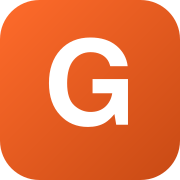
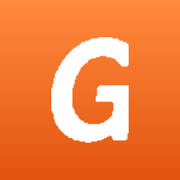
feat(brand): GraphyStyle 워드마크 로고 전면 적용
- 첨부 로고를 투명배경 워드마크 자산으로 가공(public/brand/graphystyle-logo.png)
- 헤더/히어로/푸터/A4 인쇄물(브랜드바·푸터)/설문/커뮤니티(GNB·히어로)/가입/sidex 커버 로고를 이미지로 교체
- 파비콘·앱아이콘 재생성: 오렌지 그라데이션 타일 + 흰 G (favicon.svg/ico/16~512, apple-touch)
- OG 이미지(1200x630/1200x1200) 워드마크+한글 태그라인으로 재생성
- site.webmanifest를 GraphyStyle로 갱신(name/short_name/description/maskable)

diff --git a/public/index.html b/public/index.html
@@ -138,6 +138,12 @@ button{font-family:inherit;cursor:pointer;border:none;background:none;color:inhe
 }
 .logo-text{color:var(--text);}
 .logo-text span{color:var(--brand);}
+/* GraphyStyle 워드마크 로고 */
+.gs-logo{height:30px;width:auto;display:block;}
+.hero-head .gs-logo{height:auto;width:min(460px,76vw);margin:0 auto;}
+.a4-logo{height:10mm;width:auto;display:block;}
+.a4-foot-logo{height:5.5mm;width:auto;display:block;}
+@media(max-width:600px){.gs-logo{height:26px;}}
 
 .nav{display:flex;gap:4px;}
 .nav a{
@@ -703,9 +709,8 @@ button{font-family:inherit;cursor:pointer;border:none;background:none;color:inhe
 <!-- ===== Header ===== -->
 <header class="header">
   <div class="header-inner">
-    <a href="#" class="logo">
-      <div class="logo-mark">G</div>
-      <div class="logo-text">graphy<span>style</span></div>
+    <a href="#" class="logo" aria-label="GraphyStyle 홈">
+      <img src="/brand/graphystyle-logo.png" alt="GraphyStyle" class="gs-logo">
     </a>
     <div class="header-cta">
       <a href="point-shower-community/index.html" class="btn btn-ghost">커뮤니티</a>
@@ -722,7 +727,7 @@ button{font-family:inherit;cursor:pointer;border:none;background:none;color:inhe
         <span class="dot"></span>
         SIDEX 2026 · graphystyle
       </div>
-      <h1>graphy<span style="color:var(--brand)">style</span></h1>
+      <h1><img src="/brand/graphystyle-logo.png" alt="GraphyStyle" class="gs-logo"></h1>
       <p class="hero-sub">3D 프린팅으로 만드는 개인 맞춤 구강 케어.<br>발표 자료와 커뮤니티로 바로 이동하세요.</p>
     </div>
 
@@ -764,7 +769,7 @@ button{font-family:inherit;cursor:pointer;border:none;background:none;color:inhe
           <div class="a4-pad">
 
             <div class="a4-brandbar">
-              <div class="a4-brand"><span class="mk">G</span><b>graphy<span>style</span></b></div>
+              <img src="/brand/graphystyle-logo.png" alt="GraphyStyle" class="a4-logo">
               <div class="a4-event">SIDEX 2026 · COEX<br>그래피 부스 D-601 / 701</div>
             </div>
 
@@ -803,7 +808,7 @@ button{font-family:inherit;cursor:pointer;border:none;background:none;color:inhe
             </div>
 
             <div class="a4-foot">
-              <span class="a4-foot-brand"><span class="mk">G</span><span>발표·자문 <b>이중우 원장</b> (올리브서울치과) &nbsp;|&nbsp; 개발 <b>(주)그래피</b></span></span>
+              <span class="a4-foot-brand"><img src="/brand/graphystyle-logo.png" alt="GraphyStyle" class="a4-foot-logo"><span>발표·자문 <b>이중우 원장</b> (올리브서울치과) &nbsp;|&nbsp; 개발 <b>(주)그래피</b></span></span>
               <span>그래피 부스 D-601·701 (C·D홀 연결 로비)에서 Point Shower 실물 체험 →</span>
             </div>
 
@@ -1150,8 +1155,7 @@ button{font-family:inherit;cursor:pointer;border:none;background:none;color:inhe
     <div class="footer-grid">
       <div class="brand-block">
         <div class="logo">
-          <div class="logo-mark">G</div>
-          <div class="logo-text">graphy<span>style</span></div>
+          <img src="/brand/graphystyle-logo.png" alt="GraphyStyle" class="gs-logo">
         </div>
         <p>3D 프린팅으로 만드는 개인 맞춤 구강 케어 — graphystyle.</p>
       </div>

diff --git a/public/point-shower-community/index.html b/public/point-shower-community/index.html
@@ -49,6 +49,9 @@ body{min-height:100vh;background:var(--bg-section);margin:0;}
 .gnb-logo{font-size:21px;font-weight:800;color:var(--text);letter-spacing:-0.02em;margin-right:32px;display:flex;align-items:center;gap:10px;text-decoration:none;}
 .gnb-logo::before{content:'G';width:34px;height:34px;border-radius:9px;background:linear-gradient(135deg,var(--accent),var(--accent-deep));color:#fff;display:grid;place-items:center;font-weight:900;font-size:16px;flex:none;}
 .gnb-logo .st{color:var(--accent);}
+.gnb-logo::before{display:none;}
+.gnb-logo-img{height:23px;width:auto;}
+.hero-logo-img{height:44px;width:auto;}
 .gnb-tabs{display:flex;gap:6px;}
 .gnb-tab{padding:11px 16px;font-size:15px;font-weight:600;color:var(--dim);border-radius:8px;cursor:pointer;border:none;background:none;font-family:var(--fb);transition:all 0.15s;}
 .gnb-tab:hover{color:var(--text);background:var(--bg-section);}
@@ -114,7 +117,7 @@ body{min-height:100vh;background:var(--bg-section);margin:0;}
 
 /* About page */
 .about-hero{text-align:center;padding:20px 0 32px;}
-.about-hero h1{font-size:46px;font-weight:900;letter-spacing:-0.035em;margin-bottom:10px;color:var(--text);}
+.about-hero h1{font-size:46px;font-weight:900;letter-spacing:-0.035em;margin-bottom:10px;color:var(--text);display:flex;align-items:center;justify-content:center;gap:12px;flex-wrap:wrap;}
 .about-hero h1 span{color:var(--accent);}
 .about-hero .ah-sub{font-size:18px;color:var(--muted);line-height:1.65;max-width:600px;margin:0 auto;}
 .about-section{margin-bottom:32px;}
@@ -175,7 +178,7 @@ body{min-height:100vh;background:var(--bg-section);margin:0;}
 
 <!-- GNB -->
 <nav class="gnb">
-  <a class="gnb-logo" href="/">graphy<span class="st">style</span> 커뮤니티</a>
+  <a class="gnb-logo" href="/" aria-label="GraphyStyle 홈"><img src="/brand/graphystyle-logo.png" alt="GraphyStyle" class="gnb-logo-img"> 커뮤니티</a>
   <div class="gnb-tabs">
     <button class="gnb-tab active" onclick="showPage('about')">소개</button>
     <button class="gnb-tab" onclick="showPage('ideas')">아이디어</button>
@@ -210,7 +213,7 @@ body{min-height:100vh;background:var(--bg-section);margin:0;}
 <!-- ===== ABOUT ===== -->
 <div class="page active" id="page-about">
   <div class="about-hero">
-    <h1>graphy<span>style</span> 커뮤니티</h1>
+    <h1><img src="/brand/graphystyle-logo.png" alt="GraphyStyle" class="hero-logo-img"> 커뮤니티</h1>
     <div class="ah-sub">원장님과 함께 만드는 3D 프린팅 개인 맞춤 구강 케어</div>
   </div>
 

diff --git a/public/sidex.html b/public/sidex.html
@@ -98,6 +98,8 @@ html,body{margin:0;padding:0;background:#0f172a;color:var(--text);font-family:va
 }
 .brand-text{font-size:24px;font-weight:800;letter-spacing:-0.02em;}
 .brand-sub{font-size:14px;color:var(--muted);font-family:var(--fm);margin-top:2px;}
+.brand-mark-img{width:54px;height:54px;border-radius:13px;display:block;}
+.cover-logo-img{width:min(760px,86%);height:auto;display:block;}
 
 .cards{display:grid;gap:16px;}
 .cards.cols-3{grid-template-columns:repeat(3,1fr);}
@@ -409,14 +411,10 @@ html,body{margin:0;padding:0;background:#0f172a;color:var(--text);font-family:va
     <section class="slide cover warm active" data-slide="1" data-time="30"
       data-notes="안녕하세요. 주식회사 그래피 솔루션개발팀에서 자문역을 맡고 있는, 올리브서울치과 이중우 원장입니다. 바쁘신 중에 이렇게 자리해 주셔서 진심으로 감사드립니다. 지금부터 약 15분간, '3D 프린팅으로 만드는 개인 맞춤 구강 케어', 그래피 스타일을 소개해 드리겠습니다.">
       <div class="brand-row topbar">
-        <div class="brand-mark">G</div>
-        <div>
-          <div class="brand-text">Graphy</div>
-          <div class="brand-sub">× Point Shower — Solution Lab</div>
-        </div>
+        <img src="/favicon-512.png" alt="GraphyStyle" class="brand-mark-img">
       </div>
       <div class="eyebrow" style="margin-top:48px;">SIDEX 2026 · KEYNOTE</div>
-      <h1>Graphy Style</h1>
+      <h1><img src="/brand/graphystyle-logo.png" alt="GraphyStyle" class="cover-logo-img"></h1>
       <h2 style="color:var(--accent);font-weight:800;font-size:44px;margin-top:8px;">
         3D 프린팅으로 만드는 개인 맞춤 구강 케어
       </h2>

diff --git a/public/point-shower-community/join.html b/public/point-shower-community/join.html
@@ -48,6 +48,7 @@ body{min-height:100vh;min-height:100dvh;background:var(--bg-section);display:fle
 .tb-logo{display:flex;align-items:center;gap:9px;font-weight:800;font-size:19px;letter-spacing:-0.02em;color:var(--text);text-decoration:none;}
 .tb-logo .mk{width:32px;height:32px;border-radius:8px;background:linear-gradient(135deg,var(--accent),var(--accent-deep));color:#fff;display:grid;place-items:center;font-weight:900;font-size:16px;}
 .tb-logo .st{color:var(--accent);}
+.tb-logo-img{height:26px;width:auto;display:block;}
 
 /* Mobile-first funnel */
 .funnel{flex:1;min-height:0;max-width:460px;margin:0 auto;padding:0 24px;display:flex;flex-direction:column;width:100%;}
@@ -113,7 +114,7 @@ body{min-height:100vh;min-height:100dvh;background:var(--bg-section);display:fle
 </head>
 <body>
 
-<div class="topbar"><div class="topbar-in"><a class="tb-logo" href="/"><span class="mk">G</span>graphy<span class="st">style</span></a></div></div>
+<div class="topbar"><div class="topbar-in"><a class="tb-logo" href="/" aria-label="GraphyStyle 홈"><img src="/brand/graphystyle-logo.png" alt="GraphyStyle" class="tb-logo-img"></a></div></div>
 
 <div class="funnel">
 

diff --git a/public/survey.html b/public/survey.html
@@ -26,6 +26,7 @@ html,body{margin:0;background:var(--bg-soft);color:var(--ink);font-family:'Prete
 .logo{display:flex;align-items:center;gap:10px;font-weight:800;font-size:20px;letter-spacing:-0.02em;}
 .logo .mk{width:34px;height:34px;border-radius:9px;background:linear-gradient(135deg,var(--brand),var(--brand-deep));color:#fff;display:grid;place-items:center;font-weight:900;}
 .logo span{color:var(--brand);}
+.gs-logo{height:28px;width:auto;display:block;}
 
 .hero{padding:48px 0 8px;text-align:center;}
 .hero .eyebrow{font-family:'JetBrains Mono',monospace;font-size:13px;font-weight:700;letter-spacing:.1em;color:var(--brand);text-transform:uppercase;}
@@ -84,7 +85,7 @@ html,body{margin:0;background:var(--bg-soft);color:var(--ink);font-family:'Prete
 </head>
 <body>
 
-<div class="topbar"><div class="wrap"><a class="logo" href="/"><span class="mk">G</span>graphy<span>style</span></a></div></div>
+<div class="topbar"><div class="wrap"><a class="logo" href="/" aria-label="GraphyStyle 홈"><img src="/brand/graphystyle-logo.png" alt="GraphyStyle" class="gs-logo"></a></div></div>
 
 <div class="wrap">
 
